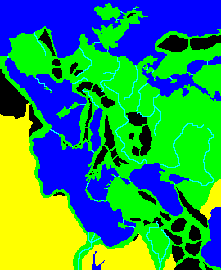
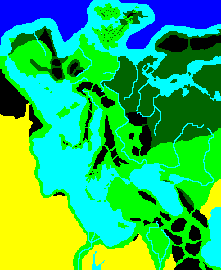
fixed several smaller issues

diff --git a/ais/expand_cy.c b/ais/expand_cy.c
@@ -1717,7 +1717,6 @@ static PyObject *__pyx_pf_3ais_8expand_c_2AI_5find_path(CYTHON_UNUSED PyObject *
 static PyObject *__pyx_pf_3ais_8expand_c_2AI_7is_impassable(CYTHON_UNUSED PyObject *__pyx_self, PyObject *__pyx_v_self, int __pyx_v_x, int __pyx_v_y); /* proto */
 static PyObject *__pyx_tp_new_3ais_8expand_c___pyx_scope_struct__update(PyTypeObject *t, PyObject *a, PyObject *k); /*proto*/
 static PyObject *__pyx_tp_new_3ais_8expand_c___pyx_scope_struct_1_genexpr(PyTypeObject *t, PyObject *a, PyObject *k); /*proto*/
-static PyObject *__pyx_float__5;
 static PyObject *__pyx_int_0;
 static PyObject *__pyx_int_1;
 static PyObject *__pyx_int_2;
@@ -4898,7 +4897,7 @@ static PyObject *__pyx_pf_3ais_8expand_c_2AI_7is_impassable(CYTHON_UNUSED PyObje
  *     def is_impassable(self, int x, int y):
  *         return (             # <<<<<<<<<<<<<<
  *             (not (0 <= x < self.territories.shape[0] and 0 <= y < self.territories.shape[1])) or
- *             (TERRAIN[self.territories[x, y, 0]][SPEED] <= .5)
+ *             (TERRAIN[self.territories[x, y, 0]][SPEED] <= 0)
  */
   __Pyx_XDECREF(__pyx_r);
 
@@ -4906,7 +4905,7 @@ static PyObject *__pyx_pf_3ais_8expand_c_2AI_7is_impassable(CYTHON_UNUSED PyObje
  *     def is_impassable(self, int x, int y):
  *         return (
  *             (not (0 <= x < self.territories.shape[0] and 0 <= y < self.territories.shape[1])) or             # <<<<<<<<<<<<<<
- *             (TERRAIN[self.territories[x, y, 0]][SPEED] <= .5)
+ *             (TERRAIN[self.territories[x, y, 0]][SPEED] <= 0)
  *         )
  */
   __pyx_t_3 = __Pyx_PyInt_From_int(__pyx_v_x); if (unlikely(!__pyx_t_3)) __PYX_ERR(0, 104, __pyx_L1_error)
@@ -4967,7 +4966,7 @@ static PyObject *__pyx_pf_3ais_8expand_c_2AI_7is_impassable(CYTHON_UNUSED PyObje
   /* "ais/expand_cy.pyx":105
  *         return (
  *             (not (0 <= x < self.territories.shape[0] and 0 <= y < self.territories.shape[1])) or
- *             (TERRAIN[self.territories[x, y, 0]][SPEED] <= .5)             # <<<<<<<<<<<<<<
+ *             (TERRAIN[self.territories[x, y, 0]][SPEED] <= 0)             # <<<<<<<<<<<<<<
  *         )
  */
   __Pyx_GetModuleGlobalName(__pyx_t_3, __pyx_n_s_TERRAIN); if (unlikely(!__pyx_t_3)) __PYX_ERR(0, 105, __pyx_L1_error)
@@ -5003,7 +5002,7 @@ static PyObject *__pyx_pf_3ais_8expand_c_2AI_7is_impassable(CYTHON_UNUSED PyObje
   __Pyx_GOTREF(__pyx_t_3);
   __Pyx_DECREF(__pyx_t_8); __pyx_t_8 = 0;
   __Pyx_DECREF(__pyx_t_6); __pyx_t_6 = 0;
-  __pyx_t_6 = PyObject_RichCompare(__pyx_t_3, __pyx_float__5, Py_LE); __Pyx_XGOTREF(__pyx_t_6); if (unlikely(!__pyx_t_6)) __PYX_ERR(0, 105, __pyx_L1_error)
+  __pyx_t_6 = PyObject_RichCompare(__pyx_t_3, __pyx_int_0, Py_LE); __Pyx_XGOTREF(__pyx_t_6); if (unlikely(!__pyx_t_6)) __PYX_ERR(0, 105, __pyx_L1_error)
   __Pyx_DECREF(__pyx_t_3); __pyx_t_3 = 0;
   __Pyx_INCREF(__pyx_t_6);
   __pyx_t_1 = __pyx_t_6;
@@ -5563,7 +5562,6 @@ static CYTHON_SMALL_CODE int __Pyx_InitCachedConstants(void) {
 
 static CYTHON_SMALL_CODE int __Pyx_InitGlobals(void) {
   if (__Pyx_InitStrings(__pyx_string_tab) < 0) __PYX_ERR(0, 1, __pyx_L1_error);
-  __pyx_float__5 = PyFloat_FromDouble(.5); if (unlikely(!__pyx_float__5)) __PYX_ERR(0, 1, __pyx_L1_error)
   __pyx_int_0 = PyInt_FromLong(0); if (unlikely(!__pyx_int_0)) __PYX_ERR(0, 1, __pyx_L1_error)
   __pyx_int_1 = PyInt_FromLong(1); if (unlikely(!__pyx_int_1)) __PYX_ERR(0, 1, __pyx_L1_error)
   __pyx_int_2 = PyInt_FromLong(2); if (unlikely(!__pyx_int_2)) __PYX_ERR(0, 1, __pyx_L1_error)

diff --git a/main.py b/main.py
@@ -37,7 +37,7 @@ class GameApp(App):
             (x, y)
             for x in range(self.map_size[0])
             for y in range(self.map_size[1])
-            if TERRAIN[self.territories[x, y, 0]][SPEED] >= .5
+            if TERRAIN[self.territories[x, y, 0]][POP_VAL] > 0.0
         ]
         utils.prettify_map(base_map, base_map_px)
 
@@ -104,7 +104,7 @@ class GameApp(App):
                 continue
             x, y = origin
             if self.territories[x, y, 1] == pid:
-                color = array('B', self.players[pid].color + (DRAW_ALPHA,))
+                color = array('B', self.players[pid].color + (int(DRAW_ALPHA*255),))
             else:
                 # Passable but not occupiable
                 color = clear_color
@@ -233,8 +233,6 @@ class GameApp(App):
                 terrain = self.territories[x, y, 0]
                 defender_roll = (sum(random.randint(0, config.BATTLE_MAX_ROLL) for _ in enemy_armies))
                 defender_roll = round(defender_roll * TERRAIN[terrain].get(DEFENCE_MOD, 1))
-                if defender_roll:
-                    print()
                 if attacker_roll > defender_roll:  # Win for attacker
                     if enemy_armies:
                         enemy_aid = enemy_armies.pop(0)

diff --git a/const.py b/const.py
@@ -69,6 +69,6 @@ TERRAIN_COLORS = {
     BRIDGE: ((115, 74, 29), (89, 58, 23)),
     MOUNTAIN: ((100, 120, 100), (20, 20, 20)),
     DESERT: ((255, 245, 153), (207, 197, 101)),
-    FOREST: ((41, 70, 0), (0, 50, 0)),
+    FOREST: ((25, 80, 0), (0, 50, 0)),
 }
-DRAW_ALPHA = 150
+DRAW_ALPHA = 0.8  # Lower number makes color of occupied territories more seethrough

diff --git a/utils.py b/utils.py
@@ -5,7 +5,7 @@ from const import MAP, TERRAIN_COLORS
 
 
 def mix_colors(rgb1, rgb2, amount):
-    return tuple(v1 * amount + v2 * (1-amount) for v1, v2 in zip(rgb1, rgb2))
+    return tuple(int(v1 * amount) + int(v2 * (1-amount)) for v1, v2 in zip(rgb1, rgb2))
 
 
 def territories_from_map(img_px, size):
